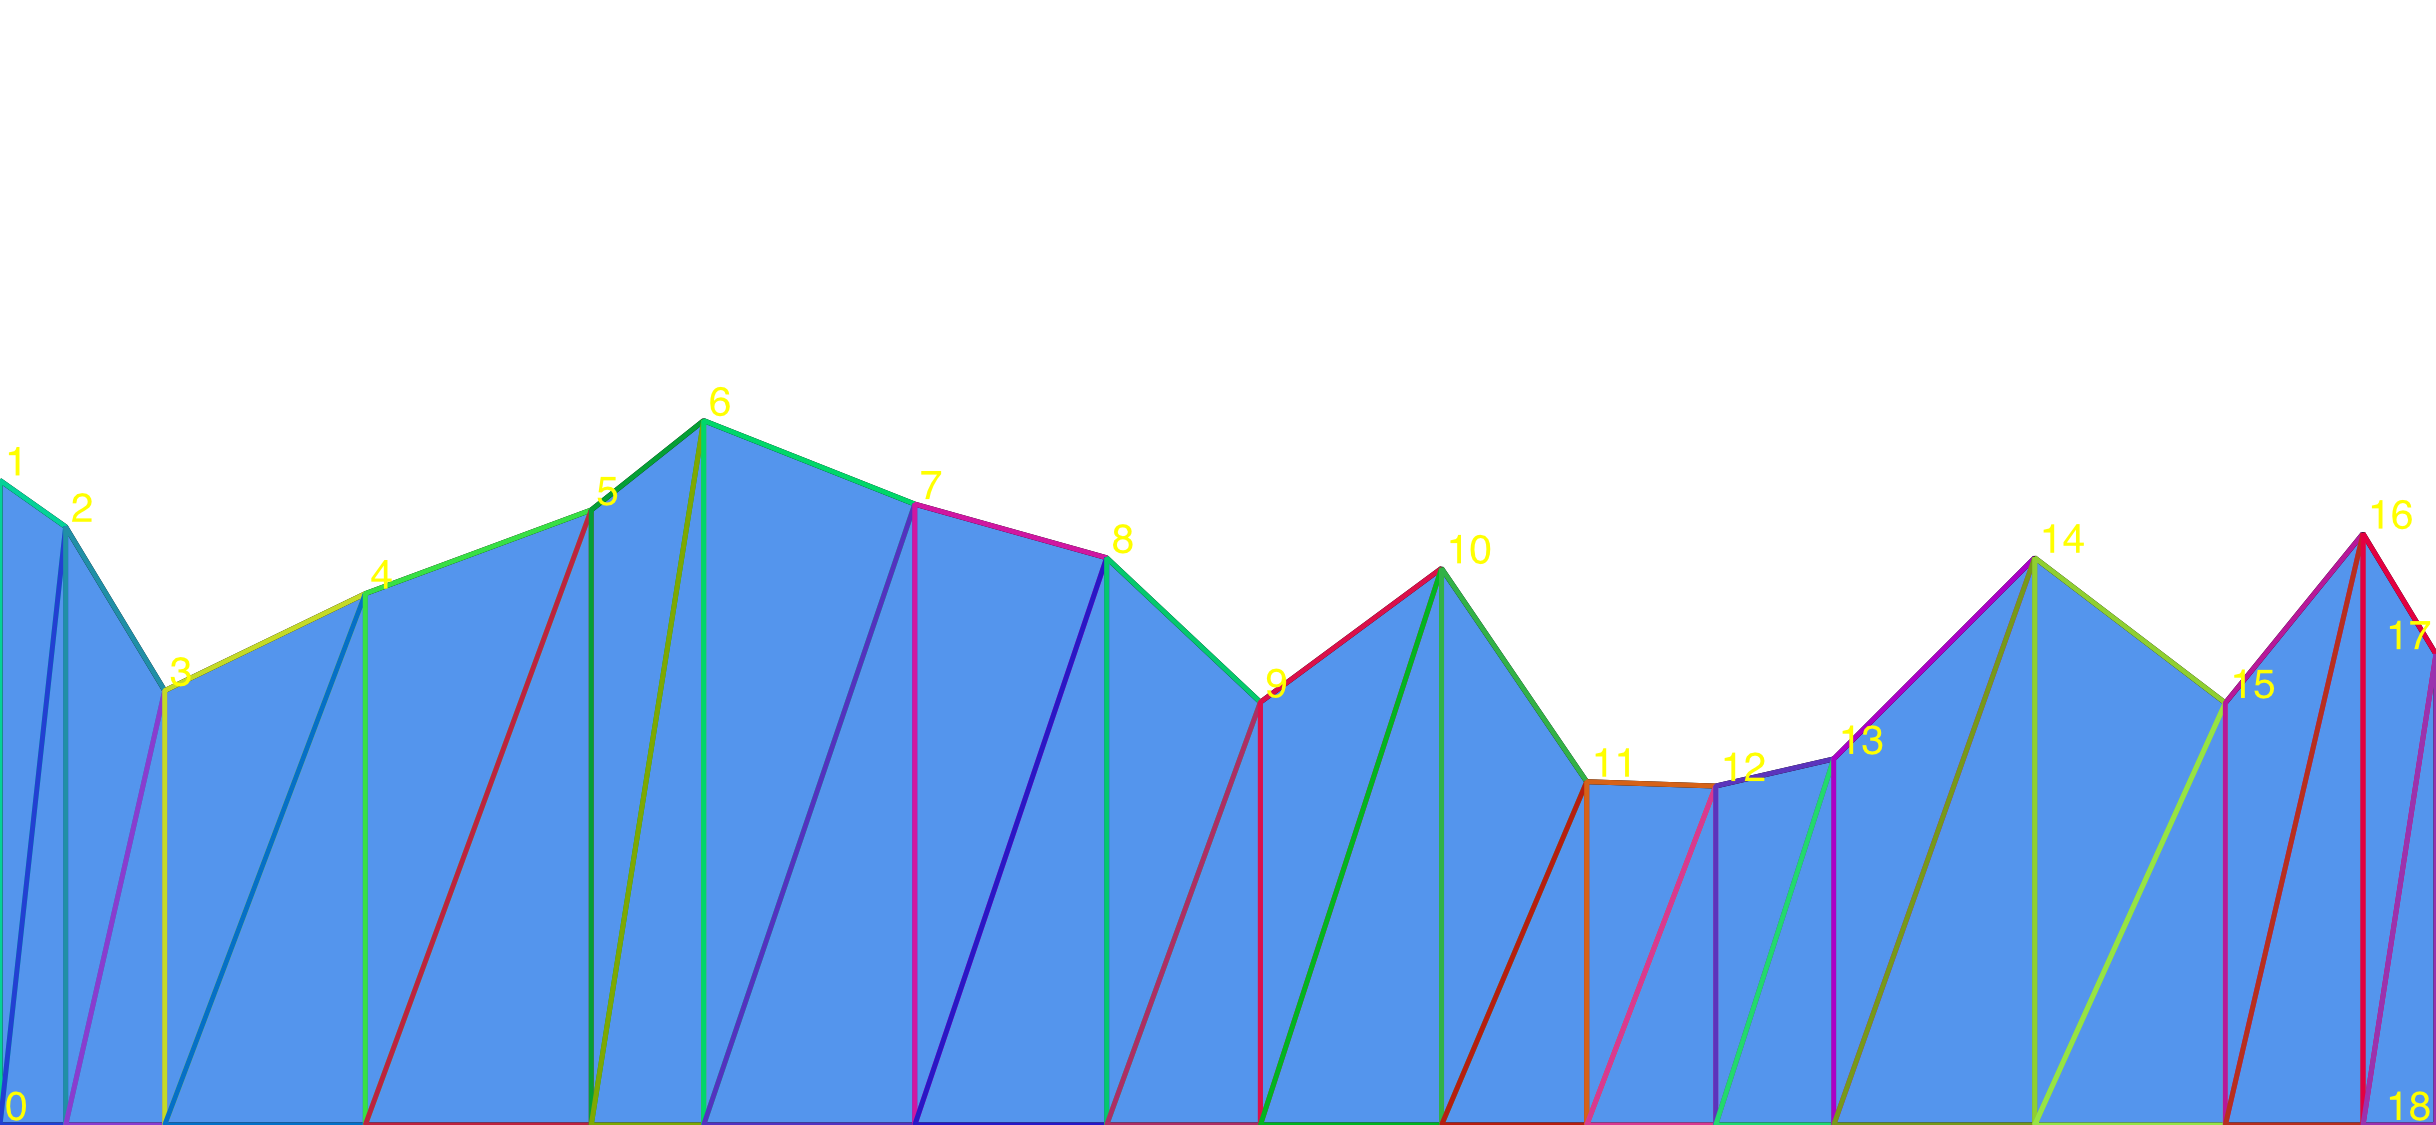
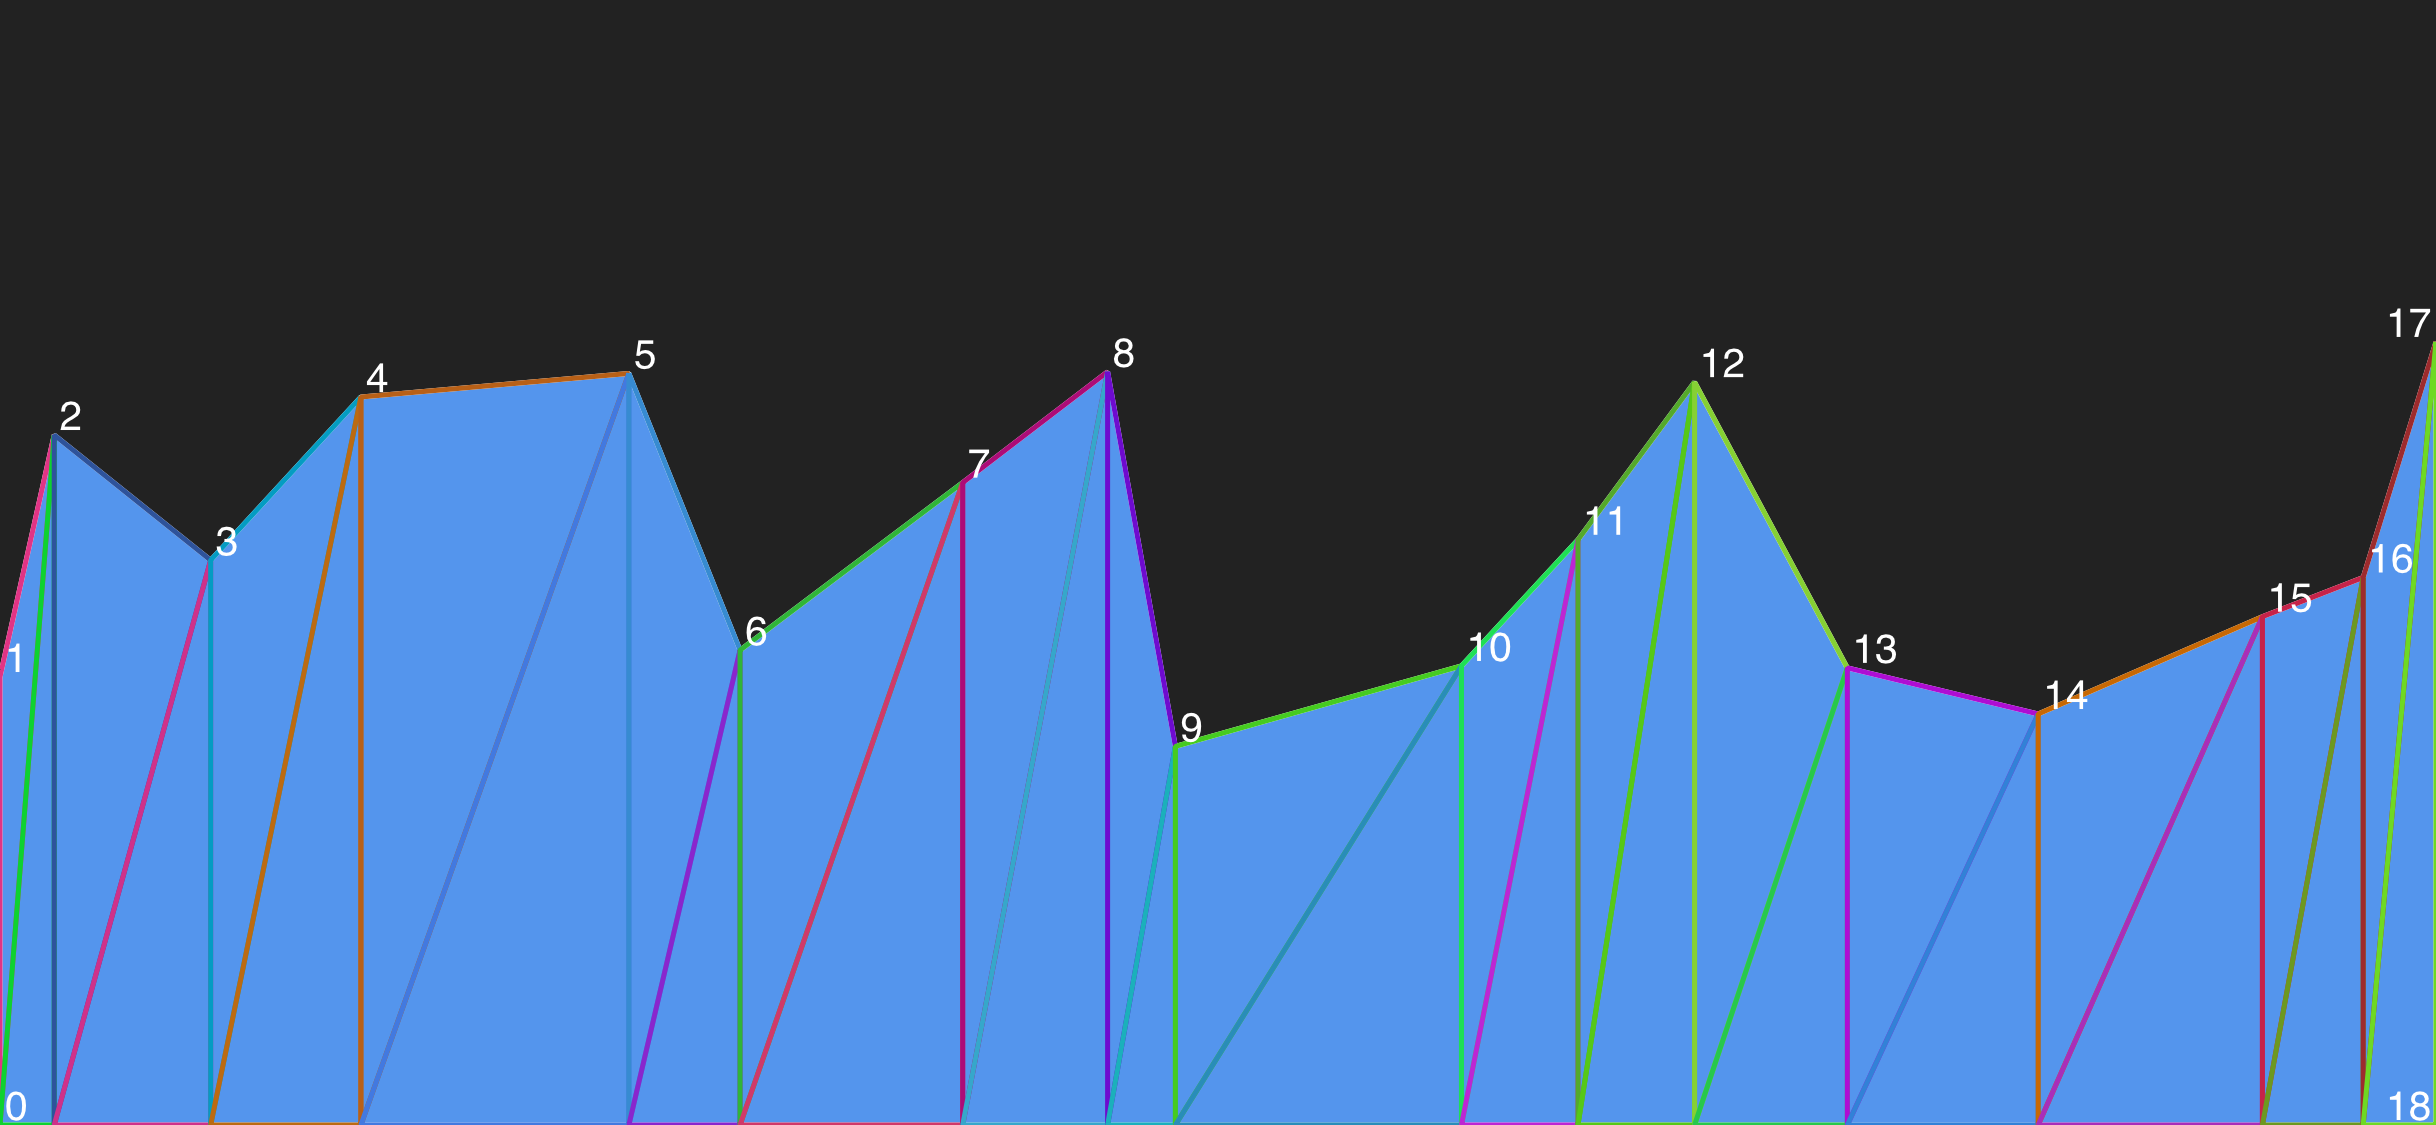
make background opaque

diff --git a/main.go b/main.go
@@ -97,7 +97,7 @@ var (
 
 func drawShape(canvas *image.RGBA, points []*point) {
 	gc := draw2dimg.NewGraphicContext(canvas)
-	gc.SetStrokeColor(color.RGBA{0, 0, 0, 0xff})
+	gc.SetStrokeColor(color.RGBA{0xff, 0xff, 0xff, 0xff})
 	gc.SetLineWidth(5)
 
 	gc.MoveTo(points[0].x, points[0].y)
@@ -108,6 +108,7 @@ func drawShape(canvas *image.RGBA, points []*point) {
 
 	gc.Close()
 
+	// cornflower blue best color
 	gc.SetFillColor(color.RGBA{0x54, 0x95, 0xed, 0xff})
 	gc.FillStroke()
 
@@ -131,7 +132,7 @@ func labelPoints(canvas *image.RGBA, points []*point) {
 	gc := draw2dimg.NewGraphicContext(canvas)
 	gc.SetFontData(draw2d.FontData{Name: "helvetica"})
 	gc.SetFontSize(32)
-	gc.SetFillColor(color.RGBA{0xff, 0xff, 0, 0xff})
+	gc.SetFillColor(color.RGBA{0xff, 0xff, 0xff, 0xff})
 
 	for i, p := range points {
 		x := 0.0
@@ -147,6 +148,10 @@ func labelPoints(canvas *image.RGBA, points []*point) {
 
 func main() {
 	canvas := image.NewRGBA(image.Rect(0, 0, x, y))
+	gc := draw2dimg.NewGraphicContext(canvas)
+
+	gc.SetFillColor(color.RGBA{0x22, 0x22, 0x22, 0xff})
+	gc.ClearRect(0, 0, x, y)
 
 	points := generatePoints(n, float64(x), float64(y))
 
